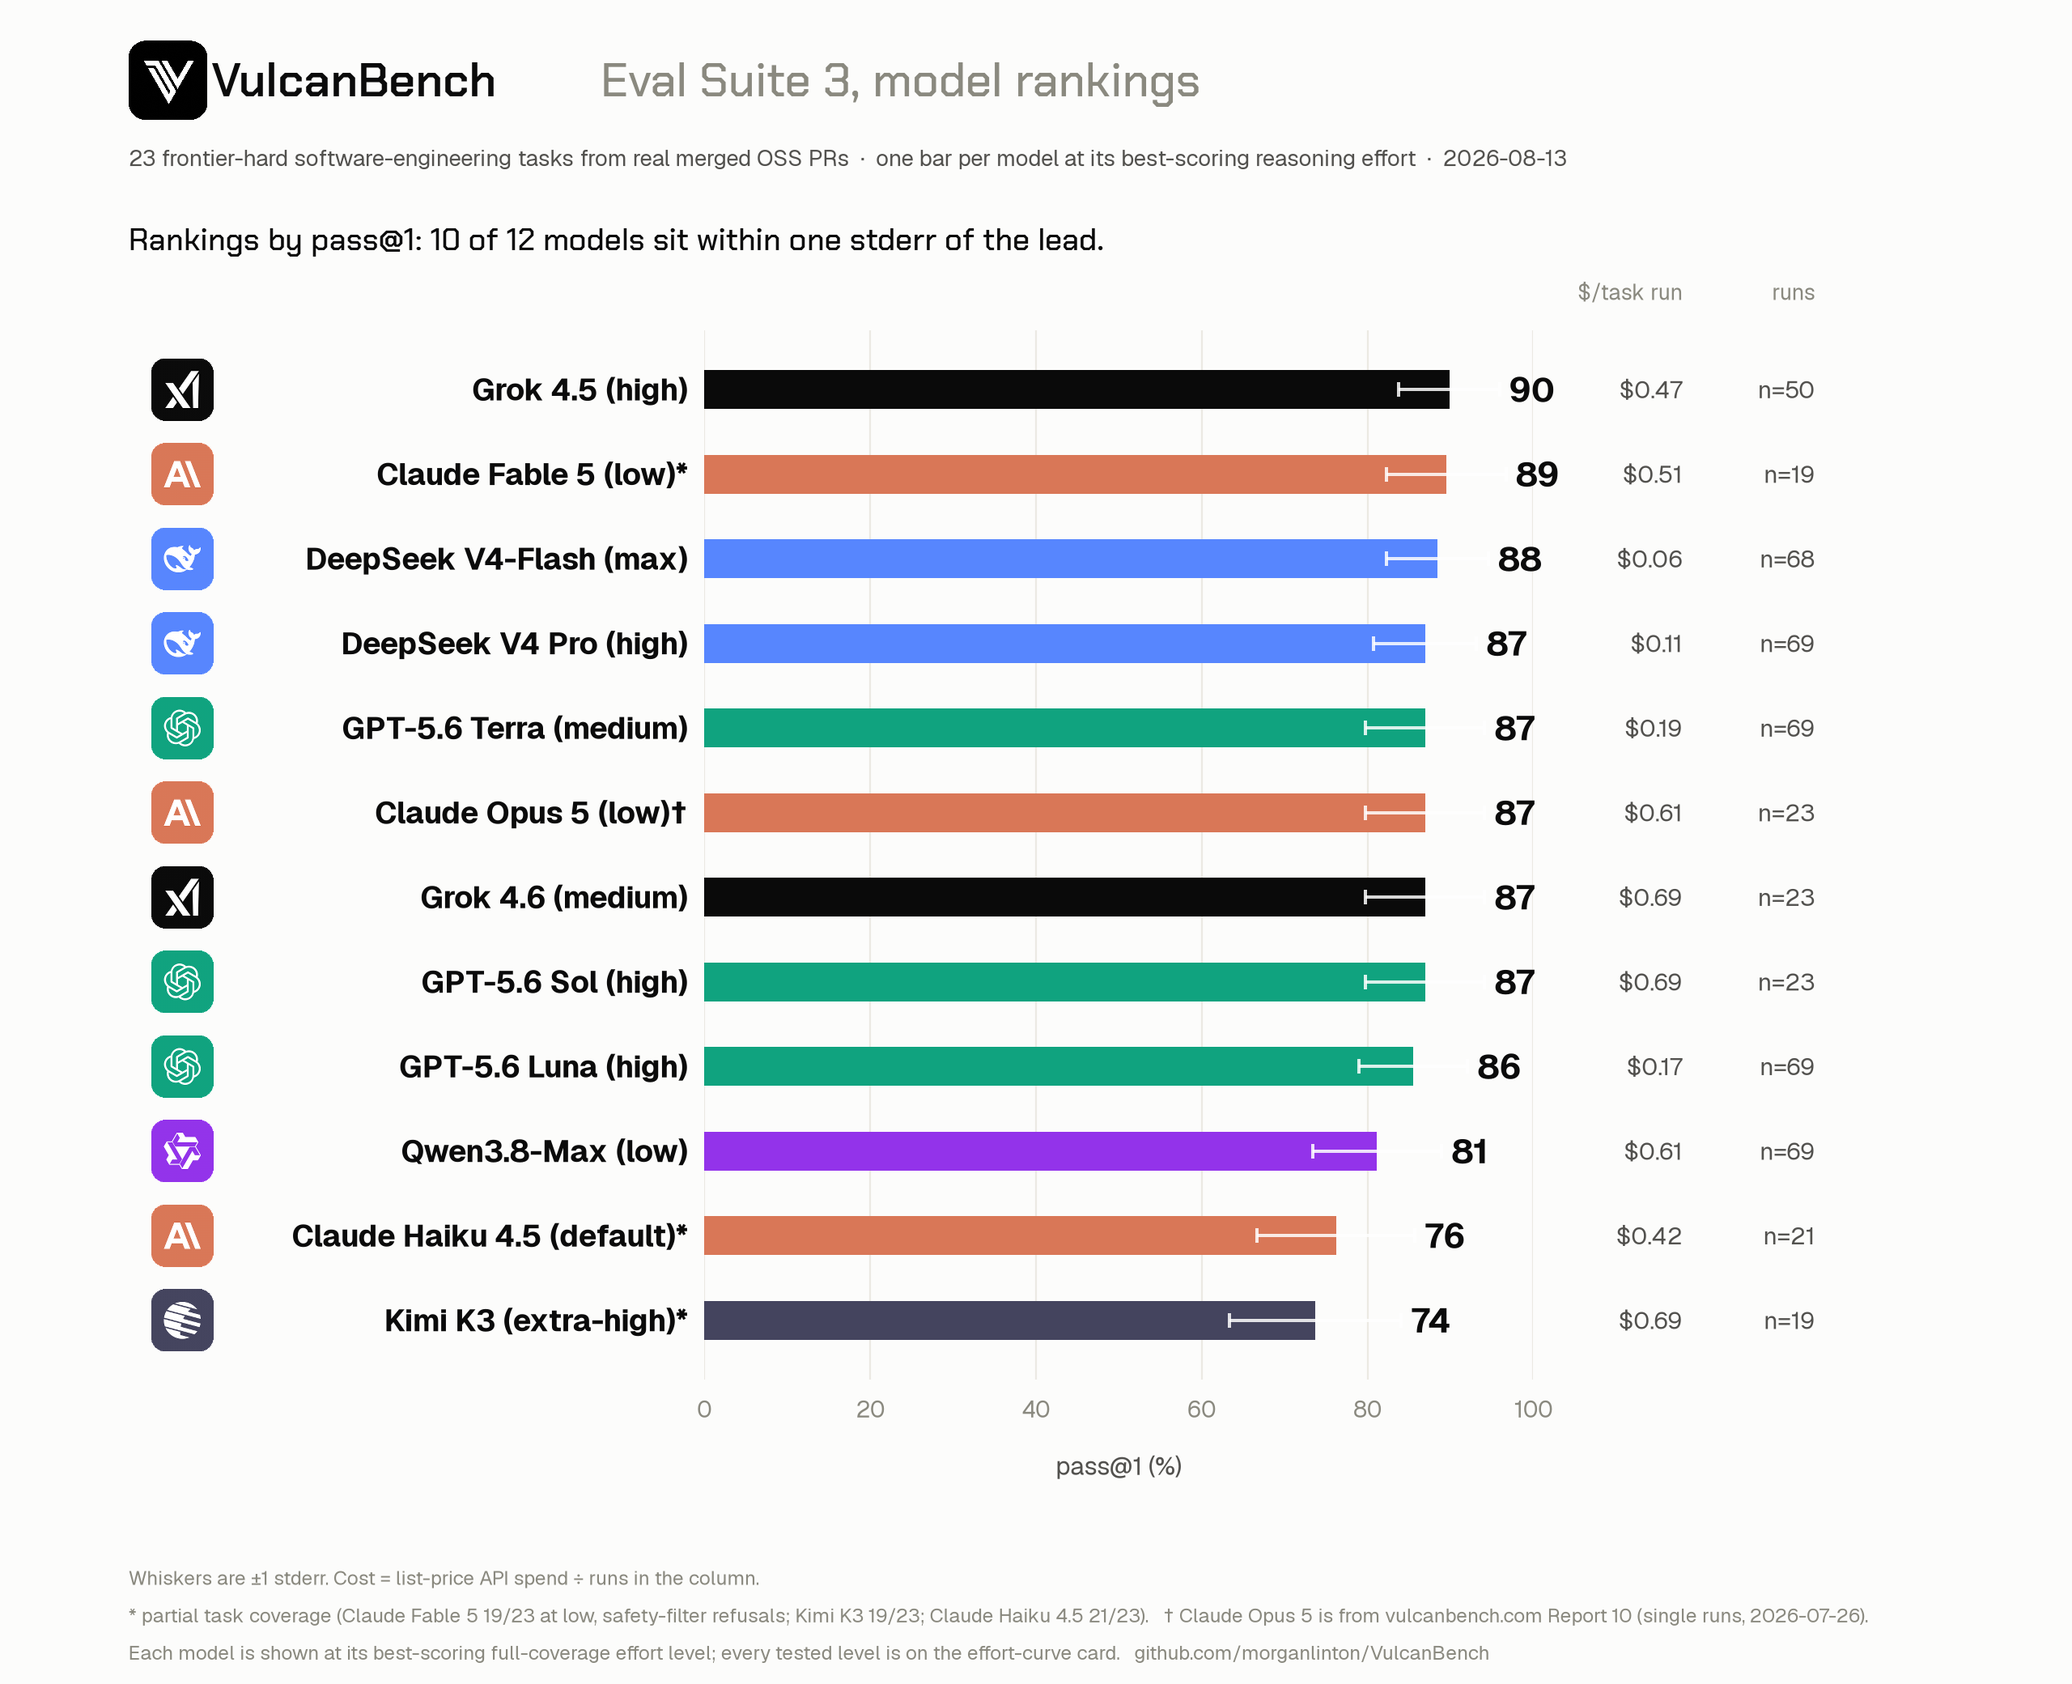
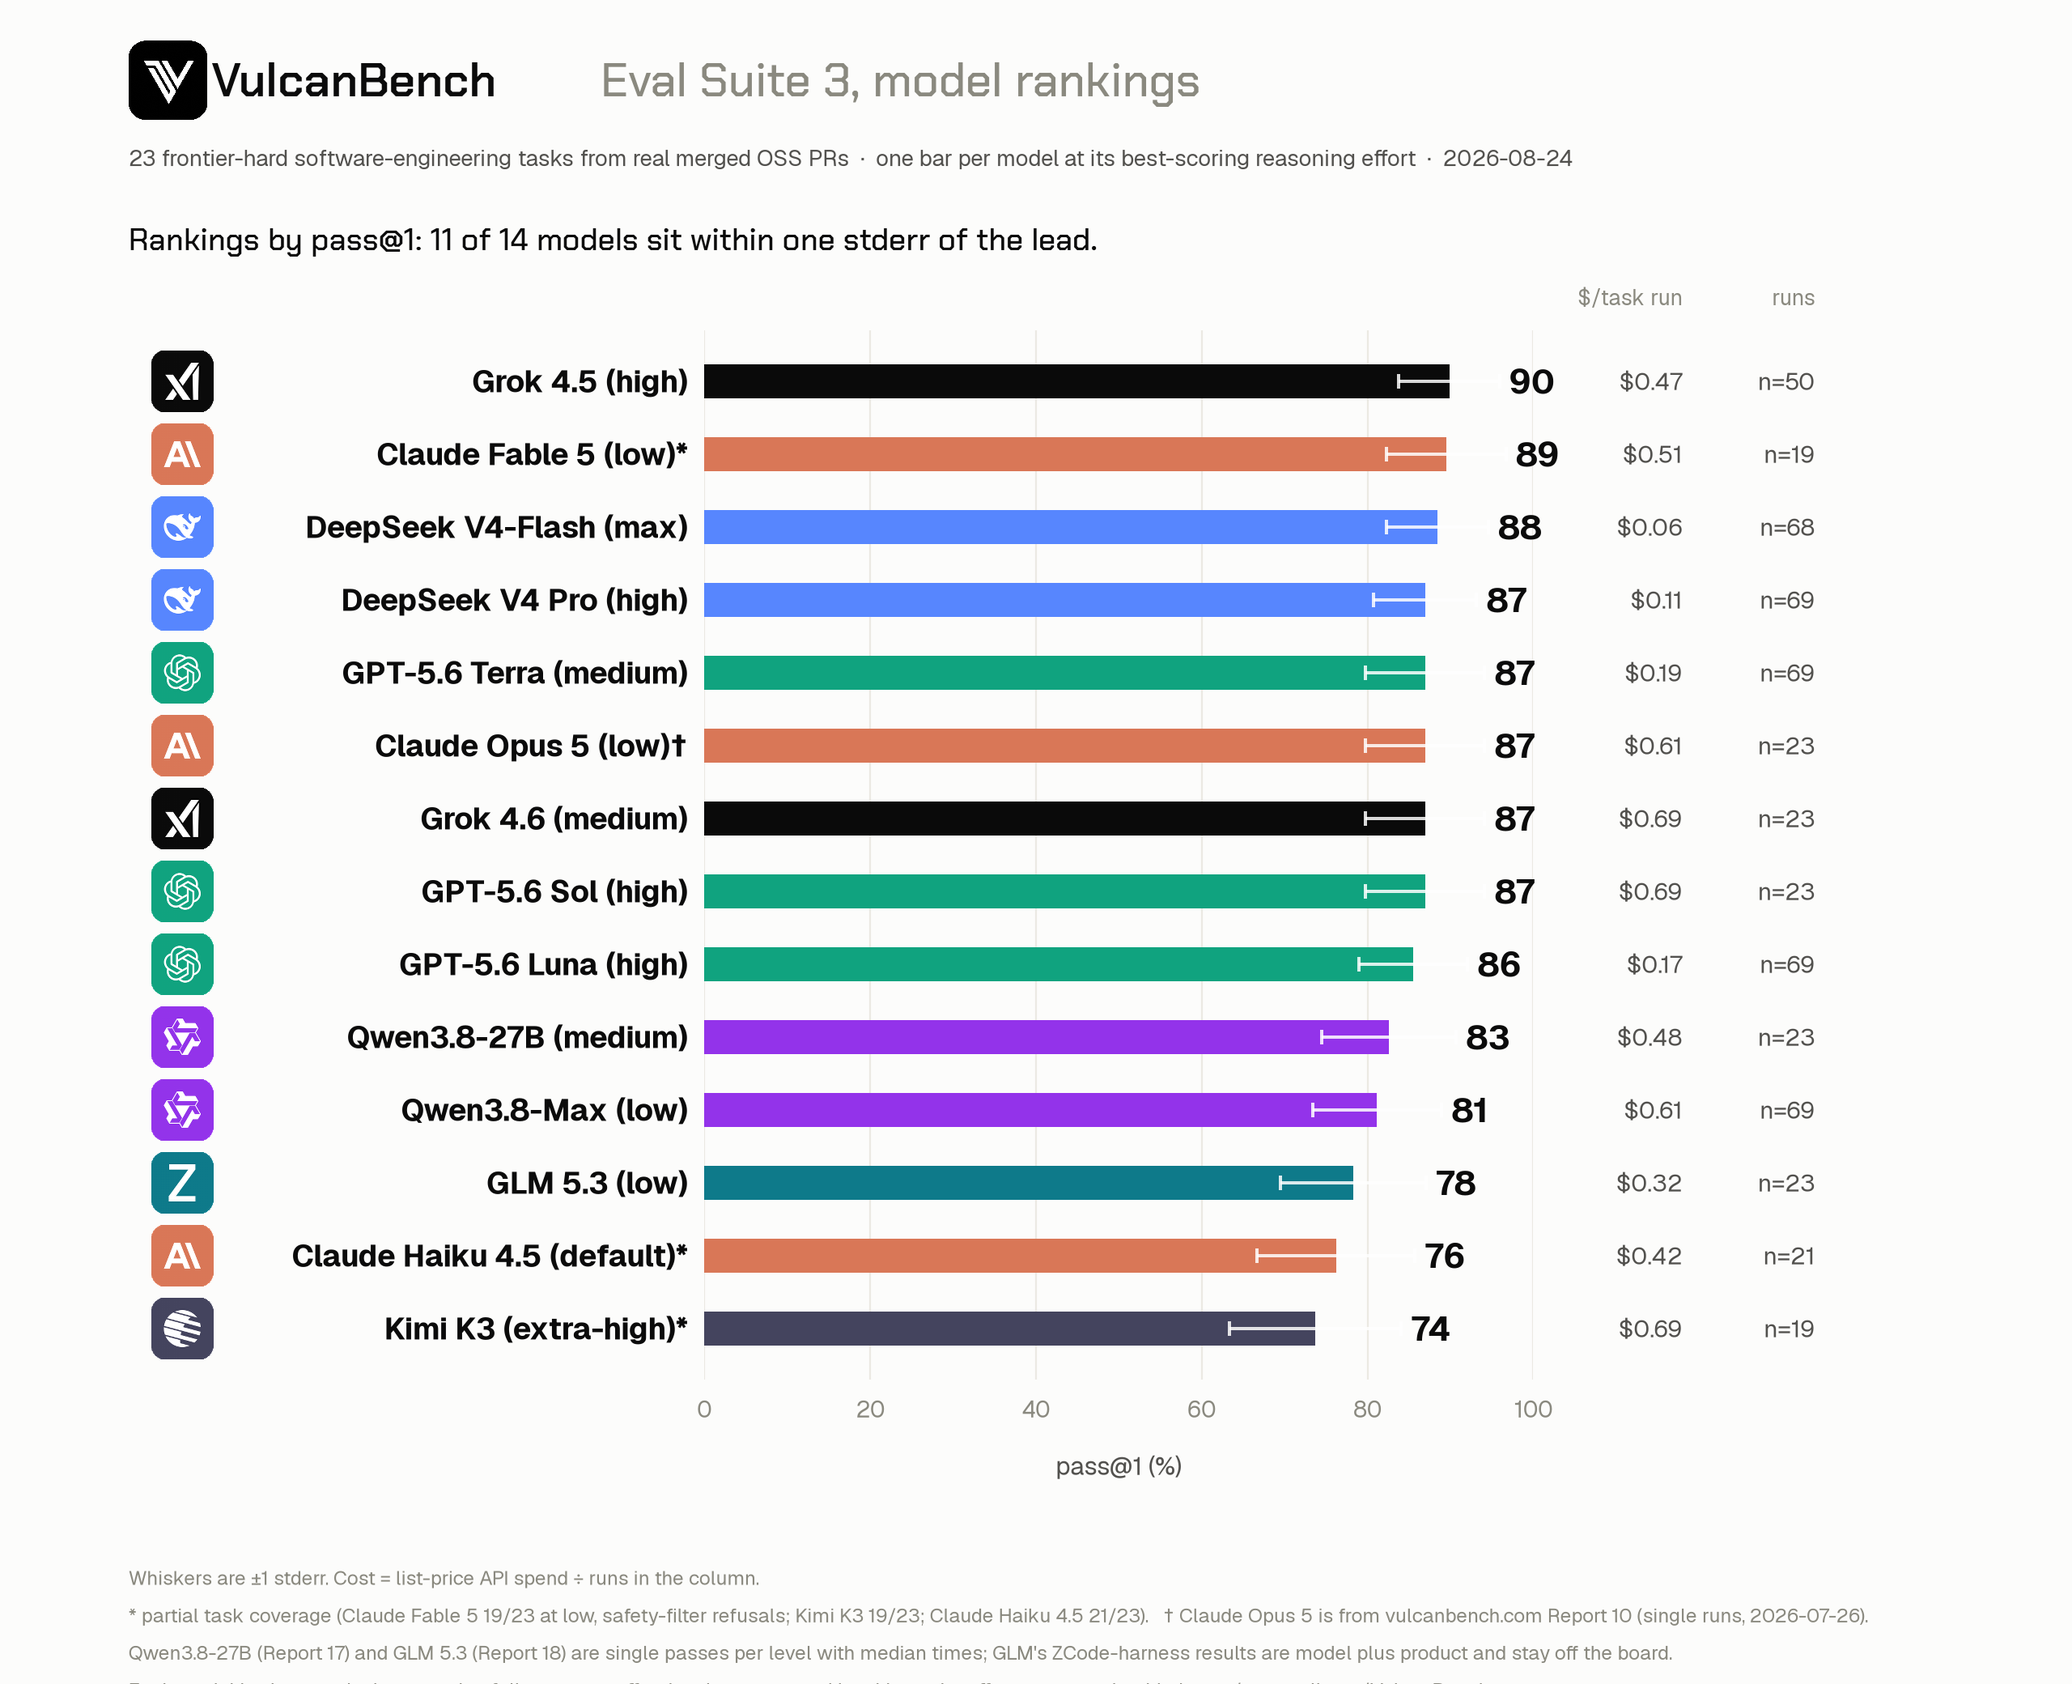
Re-render every board card with GLM 5.3 (14 models, 39 columns)
All eight leaderboard renders rebuilt 2026-08-24 via the rankings-chart
pipeline extended with GLM 5.3 (Z.ai teal, new logo chip): the rankings,
speed, and cost cards and the OG image now show 14 models; the full-board
composite and its speed/cost panel crops carry all 39 columns; the
effort-curve card grows to eleven swept models on a 6-column grid, adding
both GLM 5.3 (falls, 78/74/65) and Qwen3.8-27B, which the old caption
promised for "the next sweep".

Captions and alt texts updated to the 2026-08-24 render: stale "before GLM
joined" caveats removed, model lists and column counts corrected, cache-bust
params bumped, and the board-history entry notes the re-render. GLM columns
use median times per Report 18, noted in the panel caption.

diff --git a/leaderboard.html b/leaderboard.html
@@ -134,8 +134,8 @@
 
   <div id="view-best" role="tabpanel" aria-labelledby="lbTabBest">
   <figure>
-    <img src="assets/leaderboard/v3-rankings.png" alt="VulcanBench Eval Suite 3 rankings: Grok 4.5 at 90 percent pass at one, Claude Fable 5 at 89, DeepSeek V4-Flash at 88, then DeepSeek V4 Pro, GPT-5.6 Terra, Claude Opus 5, Grok 4.6, and GPT-5.6 Sol at 87, GPT-5.6 Luna 86, Qwen3.8-Max 81, Claude Haiku 4.5 76, Kimi K3 74" width="2560" height="2080" loading="eager" decoding="async">
-    <figcaption><b>Rankings card.</b> pass@1 by model at its best-scoring effort, whiskers &plusmn;1 stderr, with cost per task run and run count alongside. Rendered 2026-08-13; Qwen3.8-27B (added 2026-08-23, row 10 below) and GLM 5.3 (added 2026-08-24, row 12, <a href="benchmarks/18-glm53-zcode-harness.html">Report 18</a>) appear in the table and the <a href="#full-board">full board</a>.</figcaption>
+    <img src="assets/leaderboard/v3-rankings.png?v=2" alt="VulcanBench Eval Suite 3 rankings: Grok 4.5 at 90 percent pass at one, Claude Fable 5 at 89, DeepSeek V4-Flash at 88, then DeepSeek V4 Pro, GPT-5.6 Terra, Claude Opus 5, Grok 4.6, and GPT-5.6 Sol at 87, GPT-5.6 Luna 86, Qwen3.8-27B 83, Qwen3.8-Max 81, GLM 5.3 at 78, Claude Haiku 4.5 76, Kimi K3 74" width="2560" height="2080" loading="eager" decoding="async">
+    <figcaption><b>Rankings card.</b> pass@1 by model at its best-scoring effort, whiskers &plusmn;1 stderr, with cost per task run and run count alongside. Rendered 2026-08-24 with all fourteen models, including Qwen3.8-27B (<a href="benchmarks/17-qwen38-27b-effort.html">Report 17</a>) and GLM 5.3 (<a href="benchmarks/18-glm53-zcode-harness.html">Report 18</a>).</figcaption>
   </figure>
 
   <div class="dl-row" style="margin-top:6px;justify-content:center;">
@@ -180,7 +180,7 @@
     <div class="section-label">Speed</div>
     <h2>Wall-clock minutes per task, fastest first.</h2>
     <figure style="margin-top:22px;">
-      <img src="assets/leaderboard/v3-speed.png" alt="Speed card: GPT-5.6 Terra finishes a task in 2.3 minutes on average, GPT-5.6 Luna 3.8, Claude Fable 5 3.5, GPT-5.6 Sol 4.2, Claude Opus 5 5.2, Claude Haiku 4.5 5.3, DeepSeek V4 Pro 7.4, Grok 4.5 8.4, DeepSeek V4-Flash 11.2, Grok 4.6 14.2, Kimi K3 17.2, Qwen3.8-Max 19.6" width="2560" height="2080" loading="lazy" decoding="async">
+      <img src="assets/leaderboard/v3-speed.png?v=2" alt="Speed card: GPT-5.6 Terra finishes a task in 2.3 minutes on average, GPT-5.6 Luna 3.8, Claude Fable 5 3.5, GPT-5.6 Sol 4.2, Claude Opus 5 5.2, Claude Haiku 4.5 5.3, DeepSeek V4 Pro 7.4, Grok 4.5 8.4, DeepSeek V4-Flash 11.2, Grok 4.6 14.2, Kimi K3 17.2, Qwen3.8-Max 19.6" width="2560" height="2080" loading="lazy" decoding="async">
       <figcaption><b>Speed card.</b> Average sandbox wall-clock per task run at each model&rsquo;s best-scoring effort; pass@1 alongside for context. Every column&rsquo;s time is on the <a href="#full-board">full board</a>.</figcaption>
     </figure>
     <div class="dl-row" style="margin-top:6px;justify-content:center;">
@@ -192,7 +192,7 @@
     <div class="section-label">Cost</div>
     <h2>API spend per task run, lowest first.</h2>
     <figure style="margin-top:22px;">
-      <img src="assets/leaderboard/v3-cost.png" alt="Cost card: DeepSeek V4-Flash at 6 cents per task run, DeepSeek V4 Pro 11 cents, GPT-5.6 Luna 17 cents, GPT-5.6 Terra 19 cents, Claude Haiku 4.5 42 cents, Grok 4.5 47 cents, Claude Fable 5 51 cents, Claude Opus 5 and Qwen3.8-Max 61 cents, Grok 4.6, GPT-5.6 Sol and Kimi K3 69 cents" width="2560" height="2080" loading="lazy" decoding="async">
+      <img src="assets/leaderboard/v3-cost.png?v=2" alt="Cost card: DeepSeek V4-Flash at 6 cents per task run, DeepSeek V4 Pro 11 cents, GPT-5.6 Luna 17 cents, GPT-5.6 Terra 19 cents, Claude Haiku 4.5 42 cents, Grok 4.5 47 cents, Claude Fable 5 51 cents, Claude Opus 5 and Qwen3.8-Max 61 cents, Grok 4.6, GPT-5.6 Sol and Kimi K3 69 cents" width="2560" height="2080" loading="lazy" decoding="async">
       <figcaption><b>Cost card.</b> Total list-price API spend for the column divided by runs. Negotiated, cached-input, and batch rates all differ; treat these as relative, not quotes. Every column&rsquo;s cost is on the <a href="#full-board">full board</a>.</figcaption>
     </figure>
     <div class="dl-row" style="margin-top:6px;justify-content:center;">
@@ -209,10 +209,8 @@
     model&rsquo;s row says &ldquo;best: low&rdquo;, its medium and high columns are here too &mdash; low simply beat them.
     Click a column header to re-sort by score, cost, or speed.</p>
     <figure style="margin-top:22px;">
-      <img src="assets/leaderboard/v3-full-board.jpeg?v=2" alt="Full board card: all 36 model-by-effort columns rendered 2026-08-23, ranked by pass@1 from Grok 4.5 at high effort (90 percent) down to Qwen3.8-Max at xhigh (55 percent), with per-column speed and cost panels and ten per-model effort-curve cards including Qwen3.8-27B" width="2560" height="4800" loading="lazy" decoding="async">
-      <figcaption><b>Full-board card.</b> Every column, one render: rankings, speed, cost, and effort curves. Rendered
-      2026-08-23 &mdash; all 36 columns, including the three Qwen3.8-27B columns from
-      <a href="benchmarks/17-qwen38-27b-effort.html">Report 17</a>. GLM 5.3&rsquo;s three columns (added 2026-08-24, <a href="benchmarks/18-glm53-zcode-harness.html">Report 18</a>) appear in the table below and join the next render.</figcaption>
+      <img src="assets/leaderboard/v3-full-board.jpeg?v=3" alt="Full board card: all 39 model-by-effort columns rendered 2026-08-24, ranked by pass@1 from Grok 4.5 at high effort (90 percent) down to Qwen3.8-Max at xhigh (55 percent), with per-column speed and cost panels and eleven per-model effort-curve cards including Qwen3.8-27B and GLM 5.3" width="2560" height="4800" loading="lazy" decoding="async">
+      <figcaption><b>Full-board card.</b> Every column, one render: rankings, speed, cost, and effort curves. Rendered 2026-08-24 with all 39 columns, including GLM 5.3&rsquo;s three from <a href="benchmarks/18-glm53-zcode-harness.html">Report 18</a>.</figcaption>
     </figure>
     <div class="dl-row" style="margin-top:6px;justify-content:center;">
       <a class="btn primary" href="https://x.com/intent/post?text=The%20full%20VulcanBench%20board%3A%2039%20model%C3%97effort%20columns%20on%2023%20real%20merged-PR%20tasks.%20Every%20reasoning-effort%20level%2C%20not%20just%20each%20model%27s%20best.&amp;url=https%3A%2F%2Fvulcanbench.com%2Fleaderboard.html%23full-board" target="_blank" rel="noopener">Share on X</a>
@@ -310,10 +308,10 @@
       <div class="section-label">Speed</div>
       <h2>Wall-clock minutes per task, every column.</h2>
       <figure style="margin-top:22px;">
-        <img src="assets/leaderboard/v3-full-speed.jpeg?v=2" alt="Speed panel, all 36 model-by-effort columns fastest first: GPT-5.6 Luna low at 1.2 minutes per task through GPT-5.6 Terra medium 2.3, Claude Fable 5 low 3.5, Qwen3.8-27B medium 6.8, Grok 4.5 high 8.4, DeepSeek V4-Flash max 11, Grok 4.6 medium 14, up to Qwen3.8-Max xhigh at 25 minutes" width="2560" height="813" loading="lazy" decoding="async">
+        <img src="assets/leaderboard/v3-full-speed.jpeg?v=3" alt="Speed panel, all 39 model-by-effort columns fastest first: GPT-5.6 Luna low at 1.2 minutes per task, GLM 5.3 low at 3.1, Claude Fable 5 low 3.5, Qwen3.8-27B medium 6.8, Grok 4.5 high 8.4, DeepSeek V4-Flash max 11, Grok 4.6 medium 14, up to Qwen3.8-Max xhigh at 25 minutes" width="2560" height="813" loading="lazy" decoding="async">
         <figcaption><b>Speed panel.</b> Average sandbox wall-clock per task for every column, fastest first. Rendered
-        2026-08-23, before GLM 5.3 joined (its medians are in the table); Qwen3.8-27B&rsquo;s times are medians
-        (<a href="benchmarks/17-qwen38-27b-effort.html">Report 17</a>).</figcaption>
+        2026-08-24; Qwen3.8-27B&rsquo;s and GLM 5.3&rsquo;s times are medians
+        (<a href="benchmarks/17-qwen38-27b-effort.html">Report 17</a>, <a href="benchmarks/18-glm53-zcode-harness.html">Report 18</a>).</figcaption>
       </figure>
     </section>
 
@@ -321,10 +319,10 @@
       <div class="section-label">Cost</div>
       <h2>API spend per task run, every column.</h2>
       <figure style="margin-top:22px;">
-        <img src="assets/leaderboard/v3-full-cost.jpeg?v=2" alt="Cost panel, all 36 model-by-effort columns lowest first: GPT-5.6 Luna low at 3 cents per task run, DeepSeek V4-Flash low 4 cents, through Grok 4.5 high 47 cents, Qwen3.8-27B medium 48 cents, up to Claude Opus 5 high at 1 dollar 90 and GPT-5.6 Terra max at 2 dollars 29" width="2560" height="818" loading="lazy" decoding="async">
+        <img src="assets/leaderboard/v3-full-cost.jpeg?v=3" alt="Cost panel, all 39 model-by-effort columns lowest first: GPT-5.6 Luna low at 3 cents per task run, DeepSeek V4-Flash low 4 cents, GLM 5.3 low 32 cents, Grok 4.5 high 47 cents, Qwen3.8-27B medium 48 cents, up to Claude Opus 5 high at 1 dollar 90 and GPT-5.6 Terra max at 2 dollars 29" width="2560" height="818" loading="lazy" decoding="async">
         <figcaption><b>Cost panel.</b> Total list-price API spend &divide; runs for every column, lowest first. The same
         model can span more than an order of magnitude in cost across its own effort ladder. Negotiated, cached-input, and batch rates all
-        differ; treat these as relative, not quotes. Rendered 2026-08-23, before GLM 5.3 joined; its per-run costs are in the table.</figcaption>
+        differ; treat these as relative, not quotes. Rendered 2026-08-24.</figcaption>
       </figure>
     </section>
 
@@ -446,8 +444,8 @@
     <h2>What happens when you turn the reasoning knob.</h2>
     <p class="prose" style="margin-top:10px;font-size:17px;">The best-per-model rows show one effort level each. This card shows every level that was tested, on one shared y-scale: more reasoning is not reliably better on this suite, and for several models it is worse.</p>
     <figure style="margin-top:22px;">
-      <img src="assets/leaderboard/v3-effort-curves.png" alt="Effort curves: pass@1 at each reasoning-effort level for nine swept models. Grok 4.5, DeepSeek V4-Flash, GPT-5.6 Sol, and GPT-5.6 Luna rise with effort; GPT-5.6 Terra and Grok 4.6 peak mid-ladder; Claude Fable 5 dips at medium; Claude Opus 5 and Qwen3.8-Max fall as effort rises" width="2560" height="1440" loading="lazy" decoding="async">
-      <figcaption><b>Effort-curve card.</b> Each x-axis is that provider&rsquo;s own documented enum, not a common scale. Larger point = the model&rsquo;s best level. Qwen3.8-27B&rsquo;s curve (flat, then backward, like its Max sibling) appears on the <a href="#full-board">full-board card</a> (2026-08-23 render) and in <a href="benchmarks/17-qwen38-27b-effort.html">Report 17</a>; this standalone card updates with the next sweep.</figcaption>
+      <img src="assets/leaderboard/v3-effort-curves.png?v=2" alt="Effort curves: pass@1 at each reasoning-effort level for eleven swept models. Grok 4.5, DeepSeek V4-Flash, GPT-5.6 Sol, and GPT-5.6 Luna rise with effort; GPT-5.6 Terra, Grok 4.6, and Qwen3.8-27B peak mid-ladder; Claude Fable 5 dips at medium; Claude Opus 5, Qwen3.8-Max, and GLM 5.3 fall as effort rises" width="2560" height="1440" loading="lazy" decoding="async">
+      <figcaption><b>Effort-curve card.</b> Each x-axis is that provider&rsquo;s own documented enum, not a common scale. Larger point = the model&rsquo;s best level. Rendered 2026-08-24 with all eleven swept models, including Qwen3.8-27B (<a href="benchmarks/17-qwen38-27b-effort.html">Report 17</a>) and GLM 5.3 (<a href="benchmarks/18-glm53-zcode-harness.html">Report 18</a>), both single-pass sweeps.</figcaption>
     </figure>
     <div class="dl-row" style="margin-top:6px;justify-content:center;">
       <a class="btn" href="assets/leaderboard/v3-effort-curves.png" download>Download effort-curve card</a>
@@ -528,7 +526,7 @@
       <div class="hist-row"><div class="hdate">2026-08-24</div>
         <p>GLM 5.3 joins at #12 from <a href="benchmarks/18-glm53-zcode-harness.html">Report 18</a> (its raw-API
         ladder: 78/74/65 across low/high/max); the board grows to 14 models and 39 columns. The same report&rsquo;s
-        ZCode-harness results (87% at max) are model plus product and stay off the board.</p></div>
+        ZCode-harness results (87% at max) are model plus product and stay off the board. Every board card is re-rendered with the full 39 columns.</p></div>
       <div class="hist-row"><div class="hdate">2026-08-23</div>
         <p>Qwen3.8-27B joins at #10 from <a href="benchmarks/17-qwen38-27b-effort.html">Report 17</a>, and the
         full-board card is re-rendered with all 36 columns. Full-board view, per-view speed and cost panels, effort
